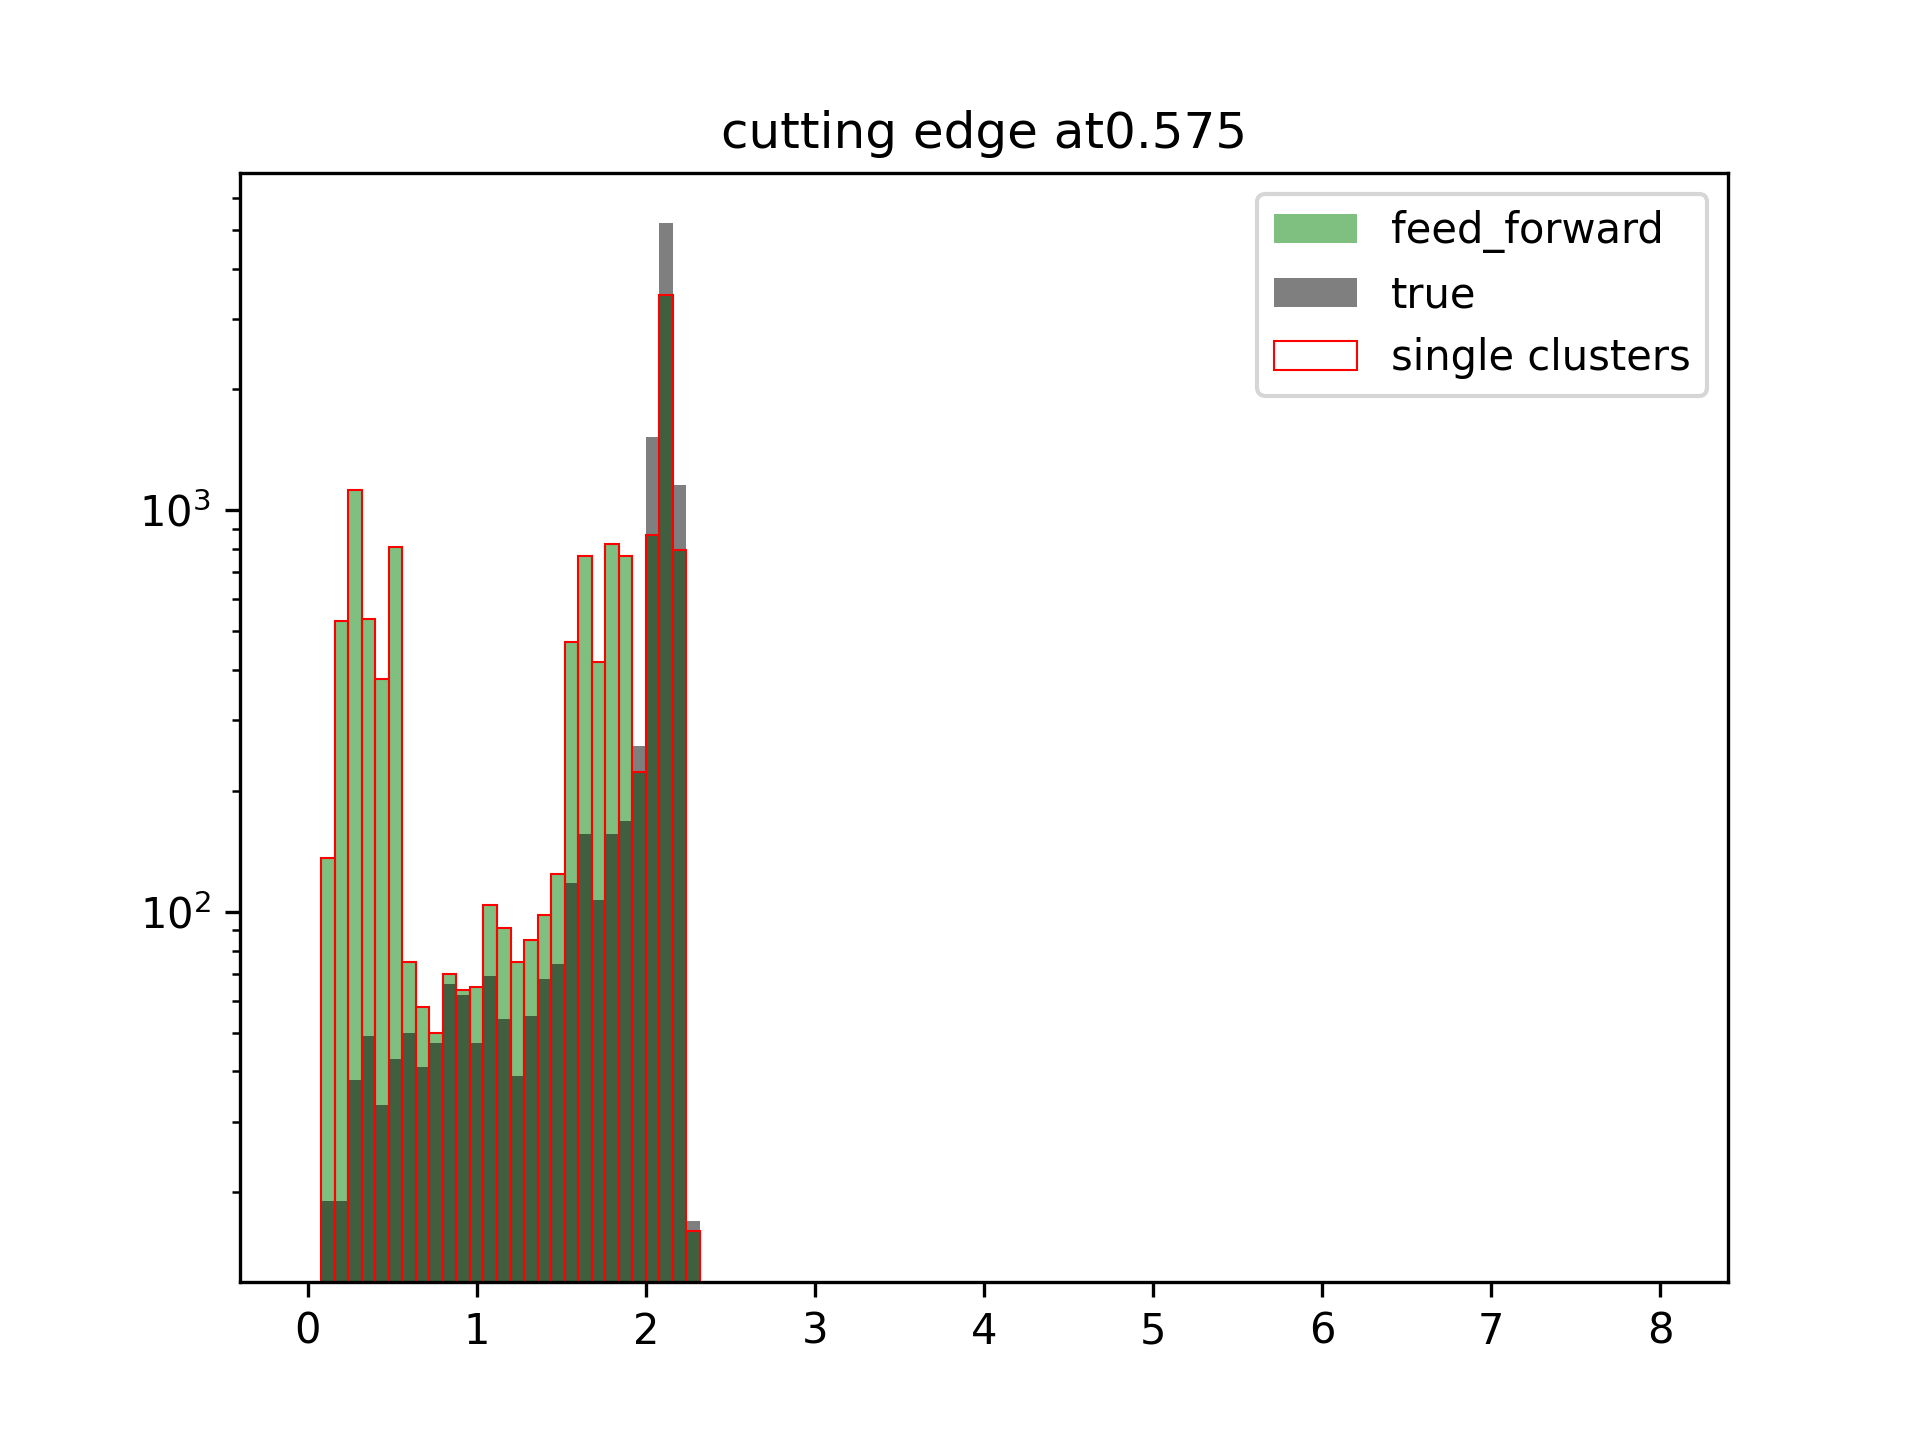
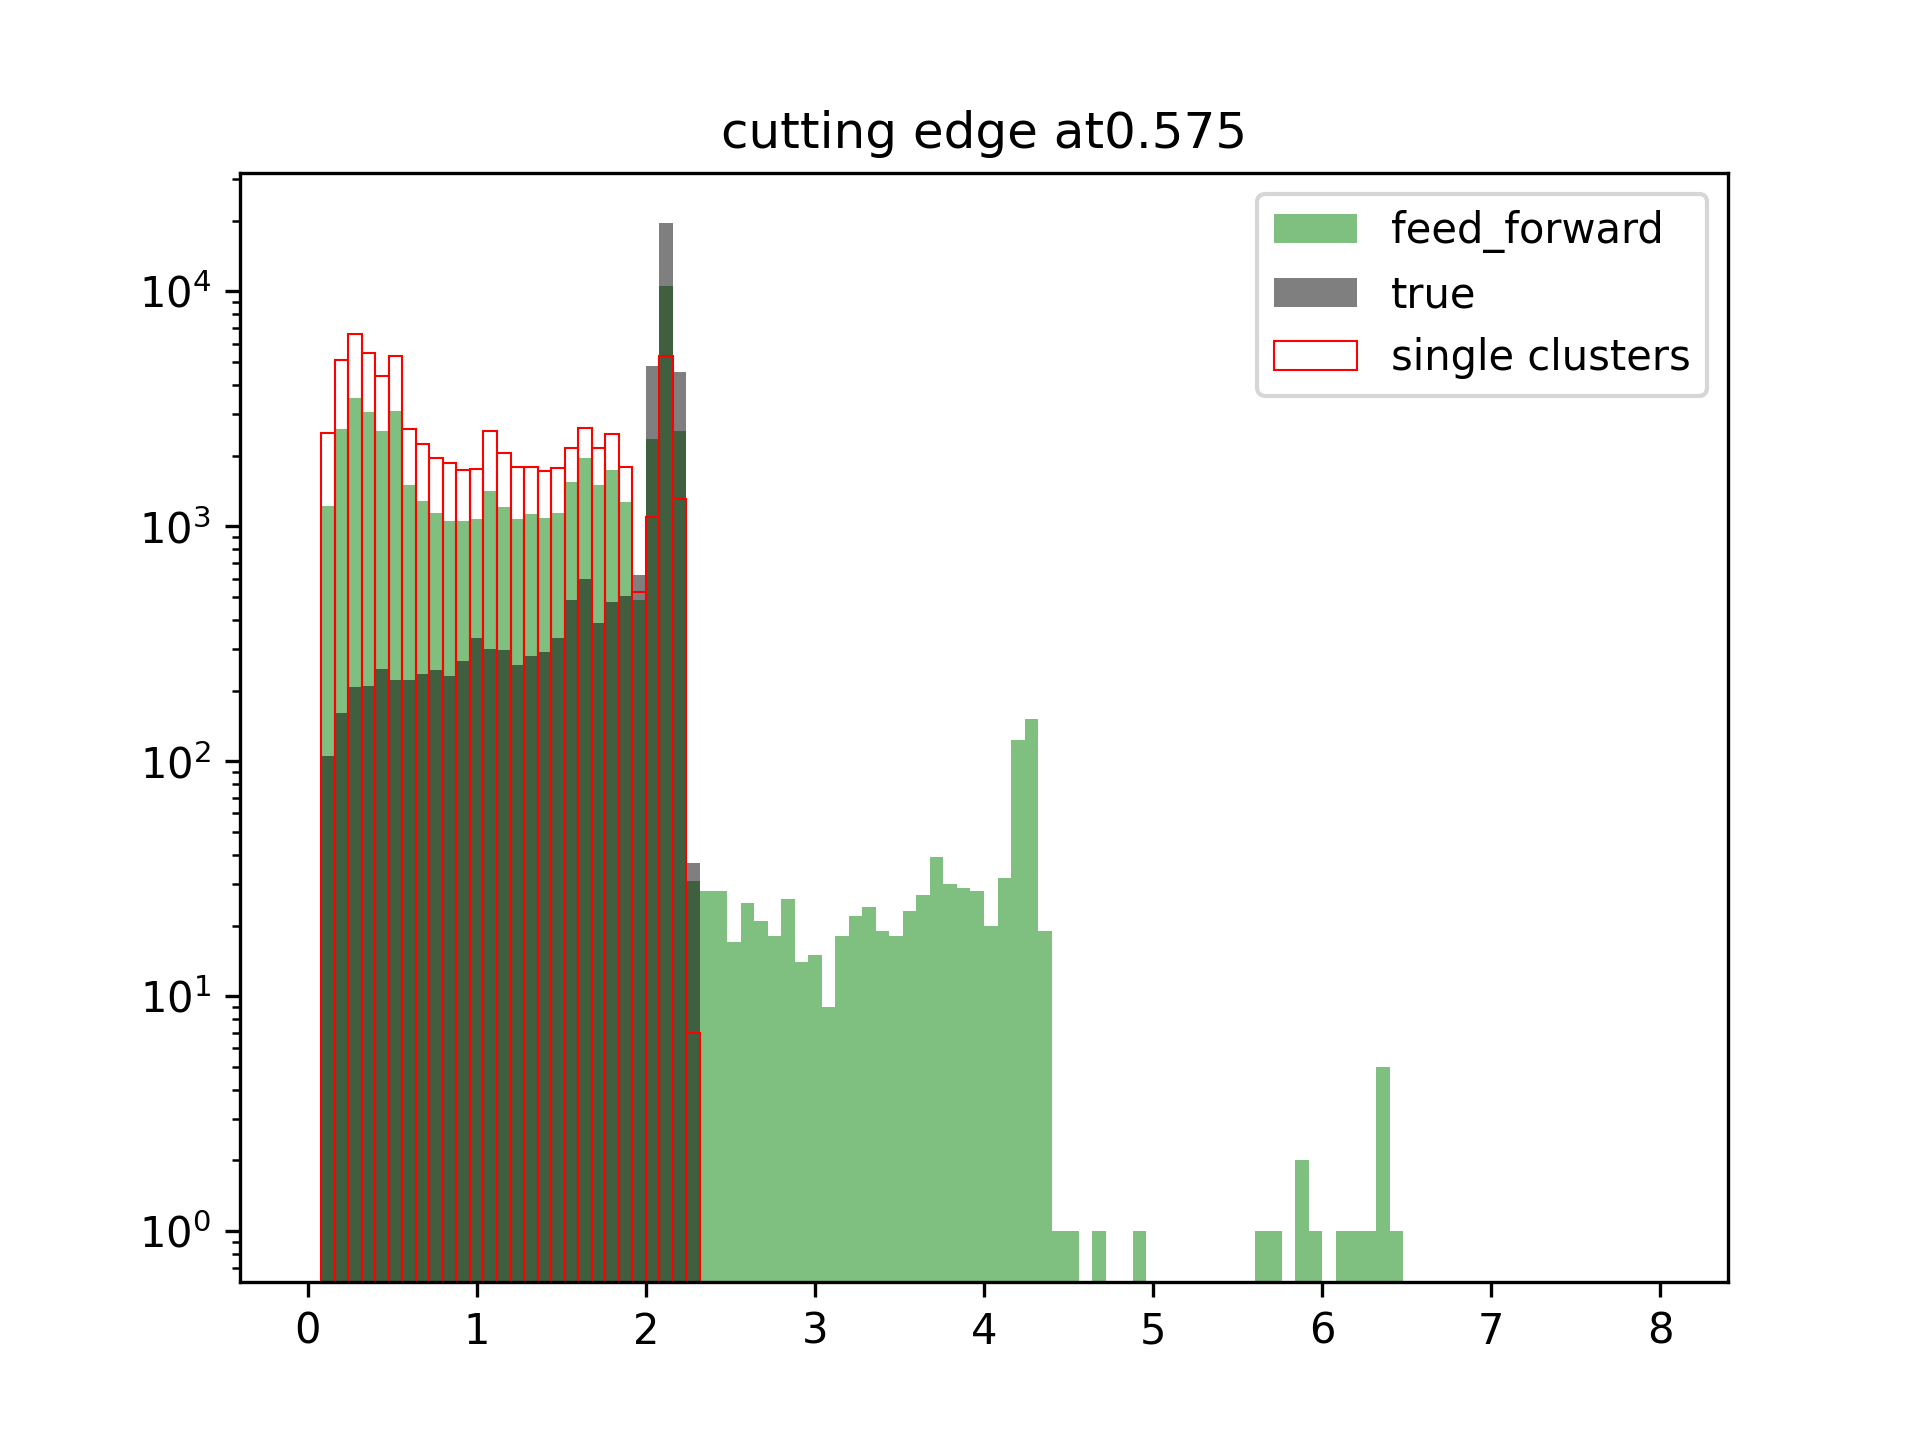
tried to run again data without preclustering it...

diff --git a/data_shaping.py b/data_shaping.py
@@ -8,10 +8,10 @@ from numpy import genfromtxt
 
 def create_data():
 	#read from file
-	#my_data = genfromtxt('data_stream_2121.txt', delimiter=',')
+	my_data = genfromtxt('data_stream_2121.txt', delimiter=',')
 	#my_data = genfromtxt('file.txt', delimiter=',')
 	#my_data = genfromtxt('small_file.txt', delimiter=',')
-	my_data = genfromtxt('test_output_false_negative.txt', delimiter=',')
+	#my_data = genfromtxt('test_output_false_negative.txt', delimiter=',')
 	#normalize data
 	my_data[:,4] =(my_data[:,4]-np.min(my_data[:,4]))/(np.max(my_data[:,4])-np.min(my_data[:,4]))
 	#my_data[:,1] =(my_data[:,1]-np.min(my_data[:,1]))/(np.max(my_data[:,1])-np.min(my_data[:,1]))

diff --git a/transform_model.py b/transform_model.py
@@ -110,10 +110,10 @@ class transformer_model_extended(nn.Module):
 class feed_forward_model(nn.Module):
 	def __init__(self, features, heads=8, mask=False):
 		super().__init__()
-		self.linear = torch.nn.Linear(8,10000)
-		self.another_linear = torch.nn.Linear(10000,10000)
+		self.linear = torch.nn.Linear(8,100)
+		self.another_linear = torch.nn.Linear(100,100)
 		self.activation = torch.nn.ReLU()
-		self.linear_back = torch.nn.Linear(10000,1)
+		self.linear_back = torch.nn.Linear(100,1)
 
 	def forward(self, x,in_hitnr):
 		num_vectors = x.shape[1]
